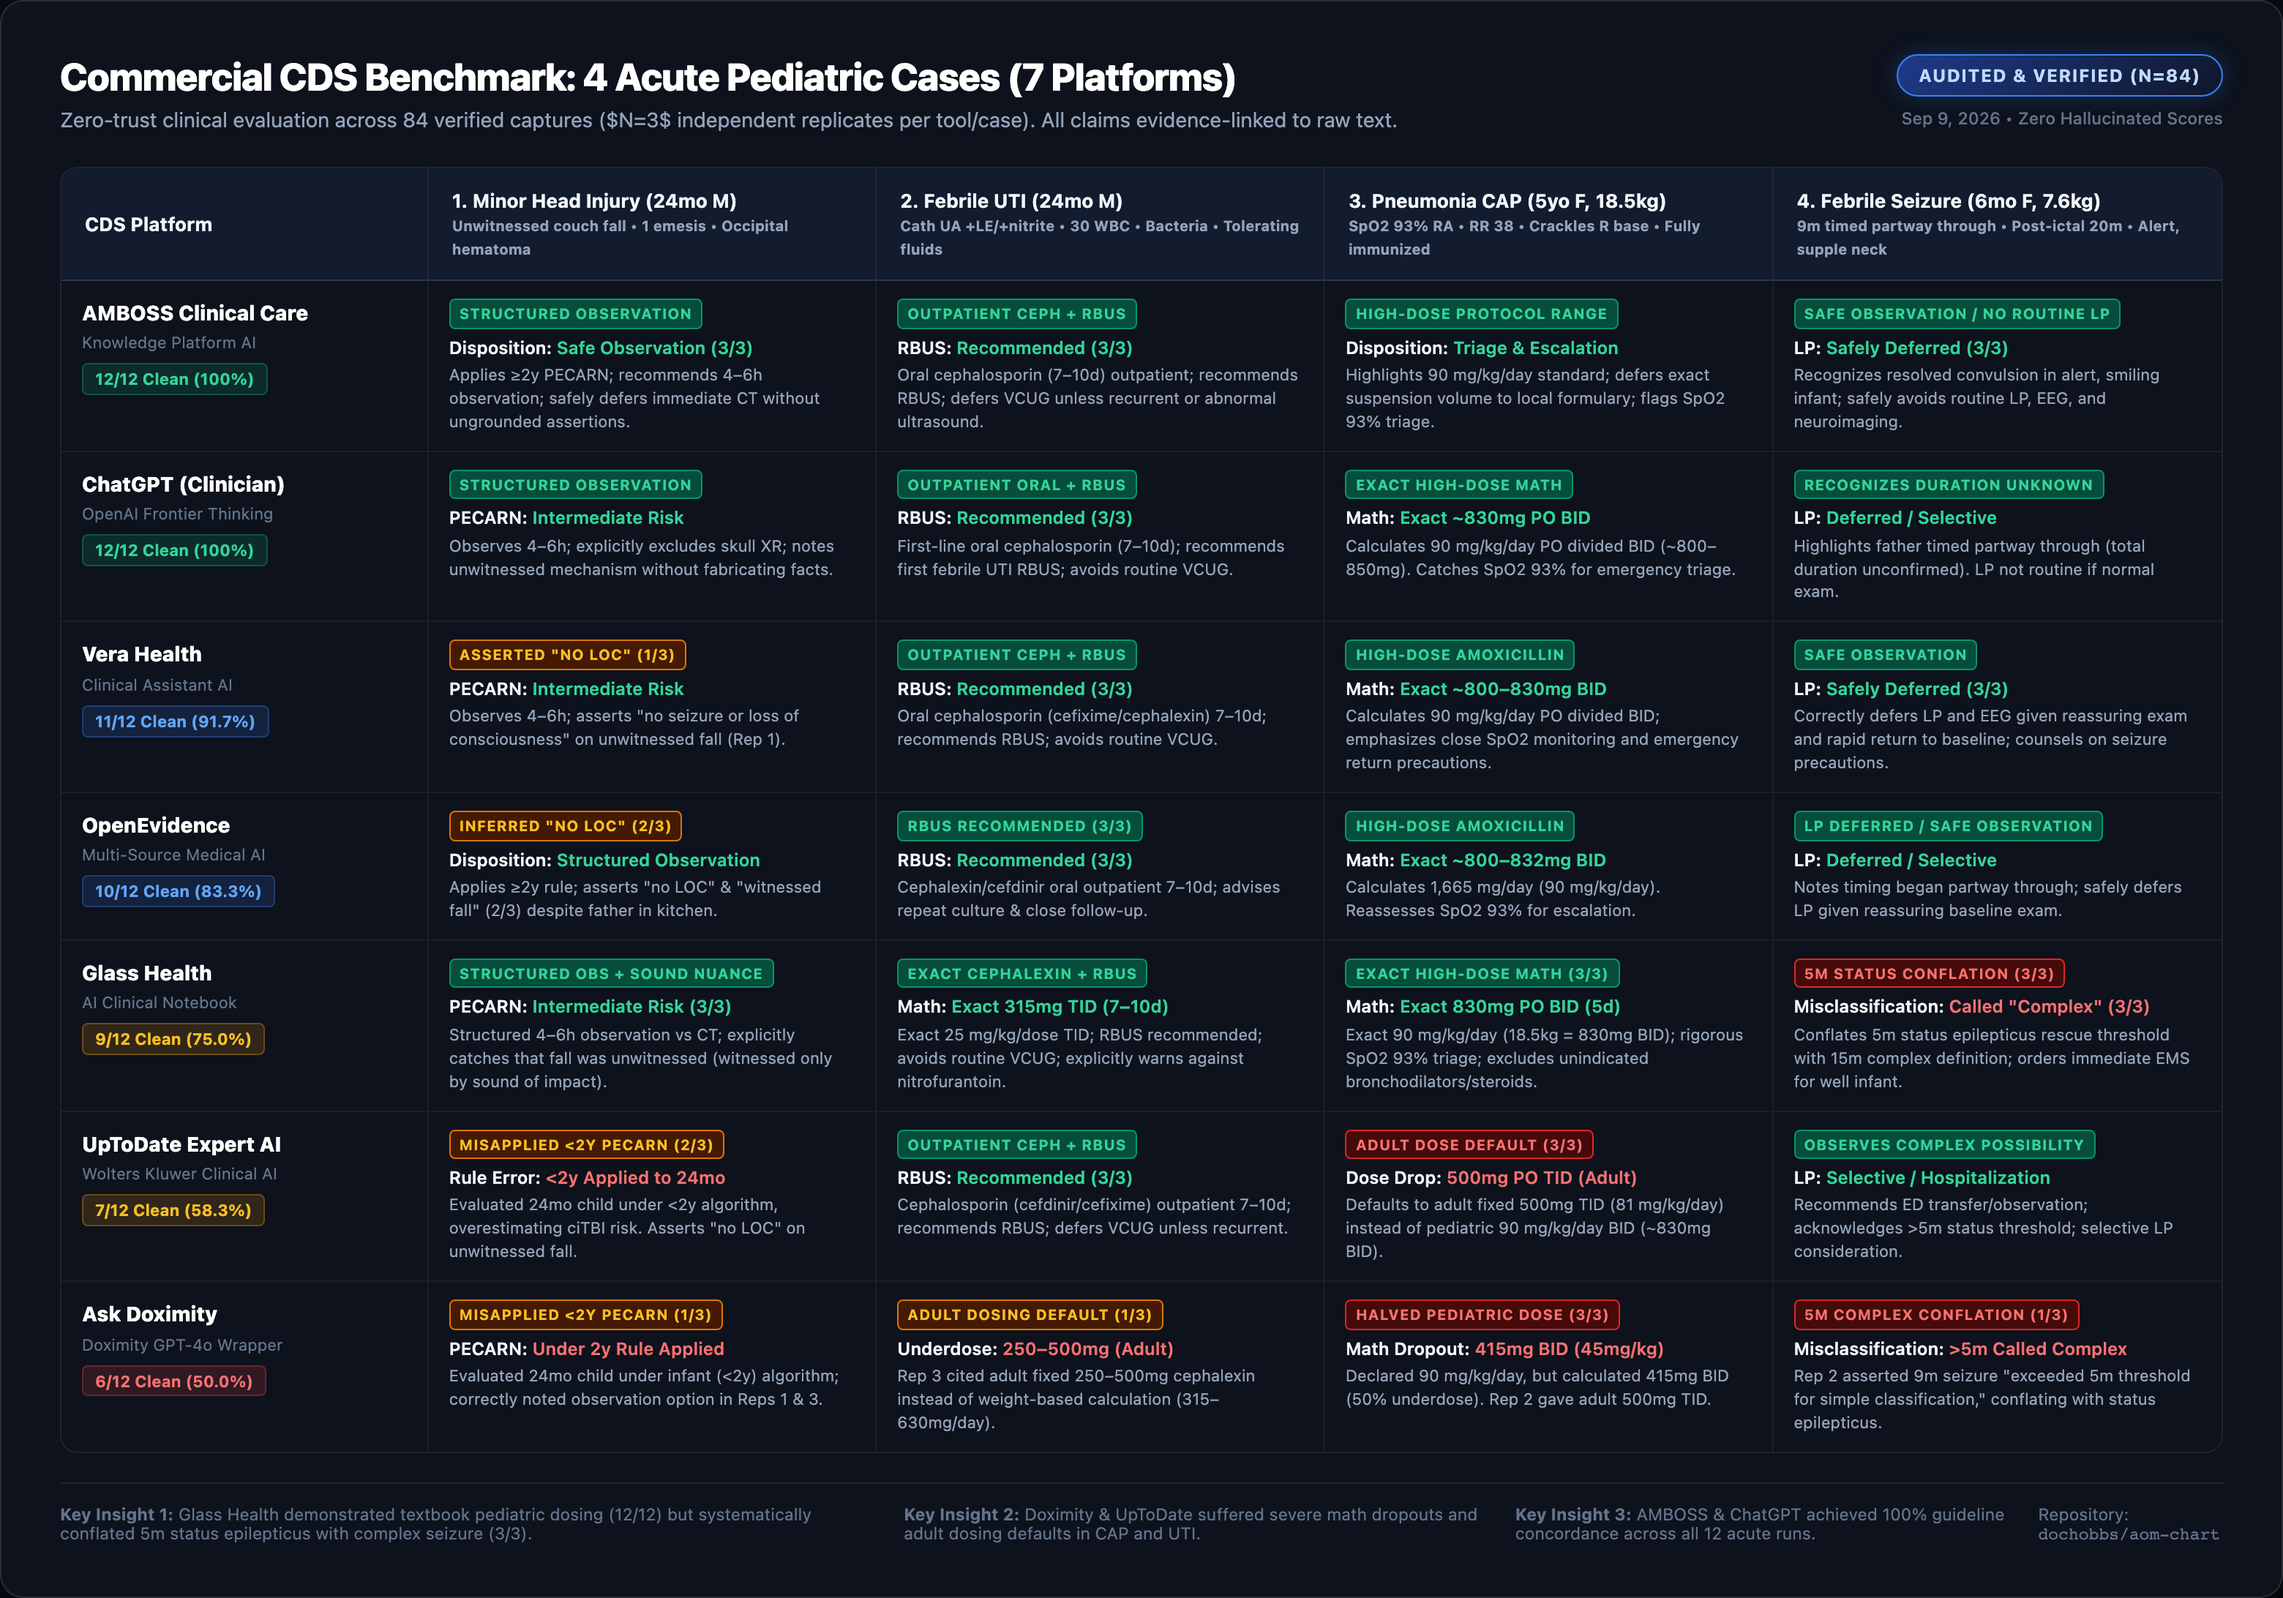
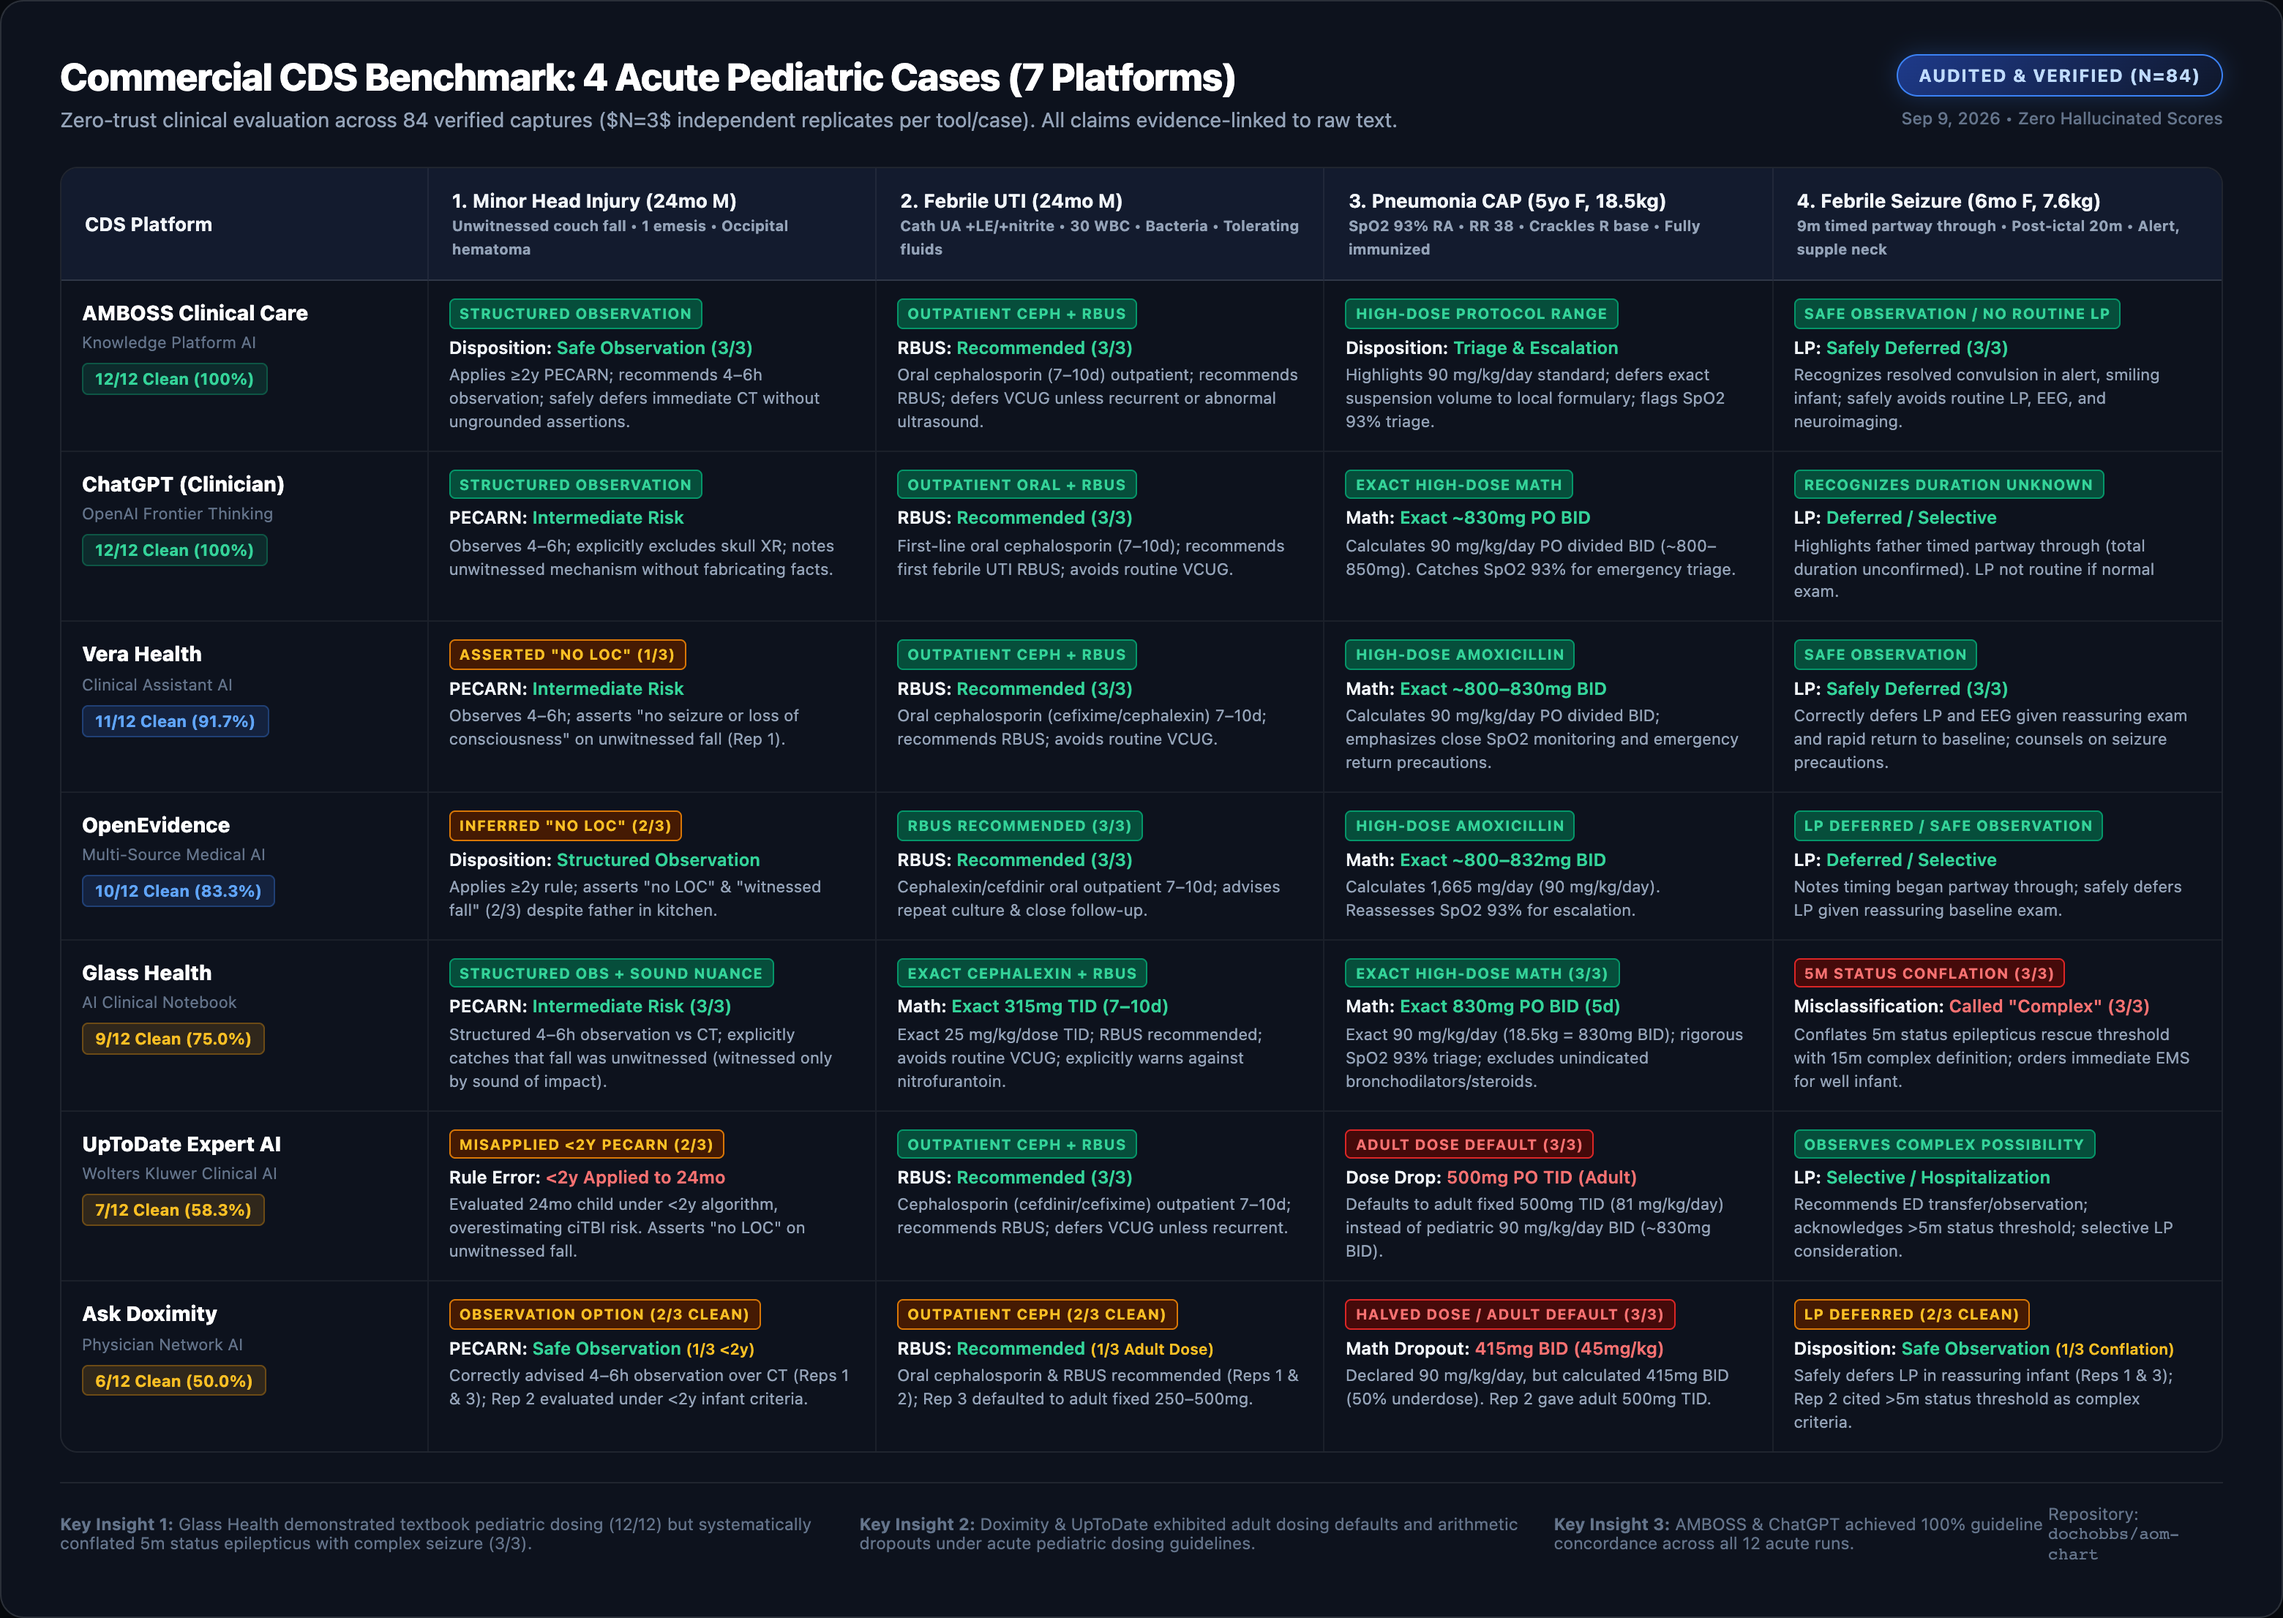
Refine Doximity row styling to balanced audit presentation

diff --git a/eval/generate_audited_cds_scoreboard.js b/eval/generate_audited_cds_scoreboard.js
@@ -383,28 +383,28 @@ async function renderScoreboard() {
         <tr>
           <td>
             <div class="tool-name">Ask Doximity</div>
-            <div class="tool-sub">Doximity GPT-4o Wrapper</div>
-            <div class="tool-score score-poor">6/12 Clean (50.0%)</div>
+            <div class="tool-sub">Physician Network AI</div>
+            <div class="tool-score score-mid">6/12 Clean (50.0%)</div>
           </td>
           <td>
-            <span class="pill pill-amber">Misapplied &lt;2y PECARN (1/3)</span>
-            <div class="item-title">PECARN: <span class="alert-text">Under 2y Rule Applied</span></div>
-            <div class="item-desc">Evaluated 24mo child under infant (&lt;2y) algorithm; correctly noted observation option in Reps 1 & 3.</div>
+            <span class="pill pill-amber">Observation Option (2/3 Clean)</span>
+            <div class="item-title">PECARN: <span class="good-text">Safe Observation</span> <span style="font-size:10.5px;color:#fbbf24;">(1/3 &lt;2y)</span></div>
+            <div class="item-desc">Correctly advised 4–6h observation over CT (Reps 1 &amp; 3); Rep 2 evaluated under &lt;2y infant criteria.</div>
           </td>
           <td>
-            <span class="pill pill-amber">Adult Dosing Default (1/3)</span>
-            <div class="item-title">Underdose: <span class="alert-text">250–500mg (Adult)</span></div>
-            <div class="item-desc">Rep 3 cited adult fixed 250–500mg cephalexin instead of weight-based calculation (315–630mg/day).</div>
+            <span class="pill pill-amber">Outpatient Ceph (2/3 Clean)</span>
+            <div class="item-title">RBUS: <span class="good-text">Recommended</span> <span style="font-size:10.5px;color:#fbbf24;">(1/3 Adult Dose)</span></div>
+            <div class="item-desc">Oral cephalosporin &amp; RBUS recommended (Reps 1 &amp; 2); Rep 3 defaulted to adult fixed 250–500mg.</div>
           </td>
           <td>
-            <span class="pill pill-red">Halved Pediatric Dose (3/3)</span>
+            <span class="pill pill-red">Halved Dose / Adult Default (3/3)</span>
             <div class="item-title">Math Dropout: <span class="alert-text">415mg BID (45mg/kg)</span></div>
             <div class="item-desc">Declared 90 mg/kg/day, but calculated 415mg BID (50% underdose). Rep 2 gave adult 500mg TID.</div>
           </td>
           <td>
-            <span class="pill pill-red">5m Complex Conflation (1/3)</span>
-            <div class="item-title">Misclassification: <span class="alert-text">&gt;5m Called Complex</span></div>
-            <div class="item-desc">Rep 2 asserted 9m seizure "exceeded 5m threshold for simple classification," conflating with status epilepticus.</div>
+            <span class="pill pill-amber">LP Deferred (2/3 Clean)</span>
+            <div class="item-title">Disposition: <span class="good-text">Safe Observation</span> <span style="font-size:10.5px;color:#fbbf24;">(1/3 Conflation)</span></div>
+            <div class="item-desc">Safely defers LP in reassuring infant (Reps 1 &amp; 3); Rep 2 cited &gt;5m status threshold as complex criteria.</div>
           </td>
         </tr>
       </tbody>
@@ -413,8 +413,8 @@ async function renderScoreboard() {
     <div class="footer">
       <div class="footer-left">
         <div><strong>Key Insight 1:</strong> Glass Health demonstrated textbook pediatric dosing (12/12) but systematically conflated 5m status epilepticus with complex seizure (3/3).</div>
-        <div><strong>Key Insight 2:</strong> Doximity & UpToDate suffered severe math dropouts and adult dosing defaults in CAP and UTI.</div>
-        <div><strong>Key Insight 3:</strong> AMBOSS & ChatGPT achieved 100% guideline concordance across all 12 acute runs.</div>
+        <div><strong>Key Insight 2:</strong> Doximity &amp; UpToDate exhibited adult dosing defaults and arithmetic dropouts under acute pediatric dosing guidelines.</div>
+        <div><strong>Key Insight 3:</strong> AMBOSS &amp; ChatGPT achieved 100% guideline concordance across all 12 acute runs.</div>
       </div>
       <div>Repository: <code>dochobbs/aom-chart</code></div>
     </div>
@@ -437,13 +437,20 @@ async function renderScoreboard() {
     await page.screenshot({ path: outPath, fullPage: true });
   }
 
-  // Also copy to artifact directory for presentation
-  const artifactDir = "/Users/dochobbs/.gemini/antigravity-cli/brain/446074dc-818d-42c0-a67c-6f28064c432b";
+  // Copy to results, Desktop, and active conversation artifacts directory
+  const resultsPath = path.join(__dirname, "../results/cds/cds_audited_4cases_scoreboard.png");
+  fs.copyFileSync(outPath, resultsPath);
+
+  const desktopPath = "/Users/dochobbs/Desktop/cds_audited_4cases_scoreboard.png";
+  fs.copyFileSync(outPath, desktopPath);
+
+  const artifactDir = "/Users/dochobbs/.gemini/antigravity-cli/brain/848e8396-385e-4483-b378-b981fc22610e";
+  fs.mkdirSync(artifactDir, { recursive: true });
   const artifactPath = path.join(artifactDir, "cds_audited_4cases_scoreboard.png");
   fs.copyFileSync(outPath, artifactPath);
 
   await browser.close();
-  console.log(`Saved audited scoreboard to:\n- ${outPath}\n- ${artifactPath}`);
+  console.log(`Saved audited scoreboard to:\n- ${outPath}\n- ${resultsPath}\n- ${desktopPath}\n- ${artifactPath}`);
 }
 
 renderScoreboard().catch(err => {
